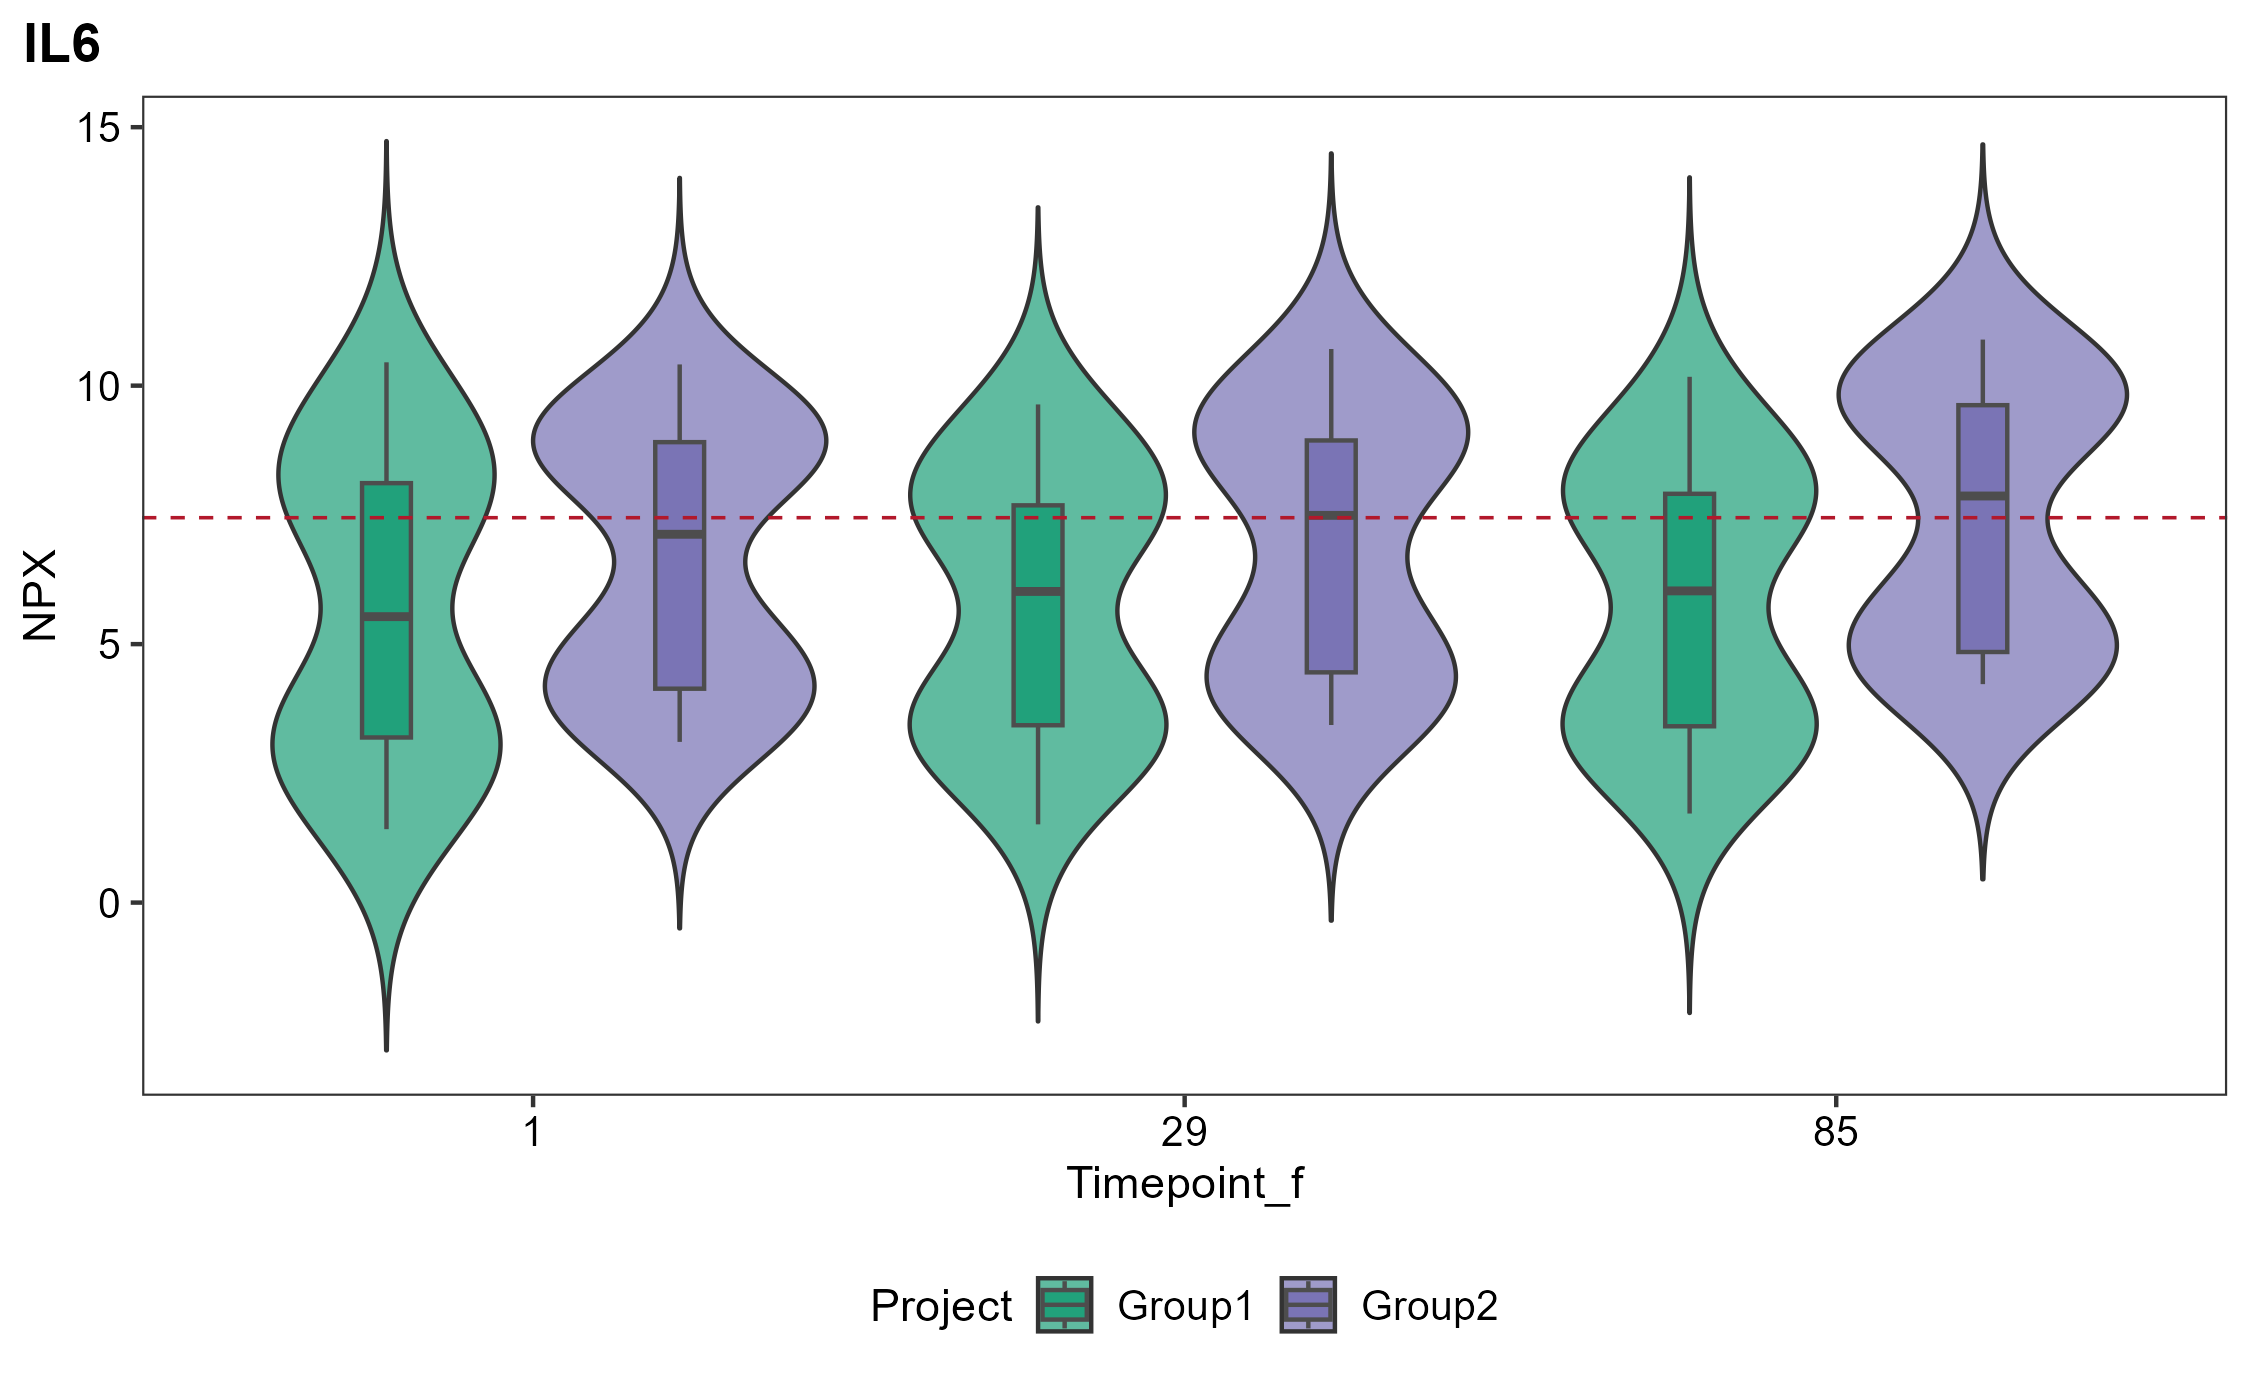
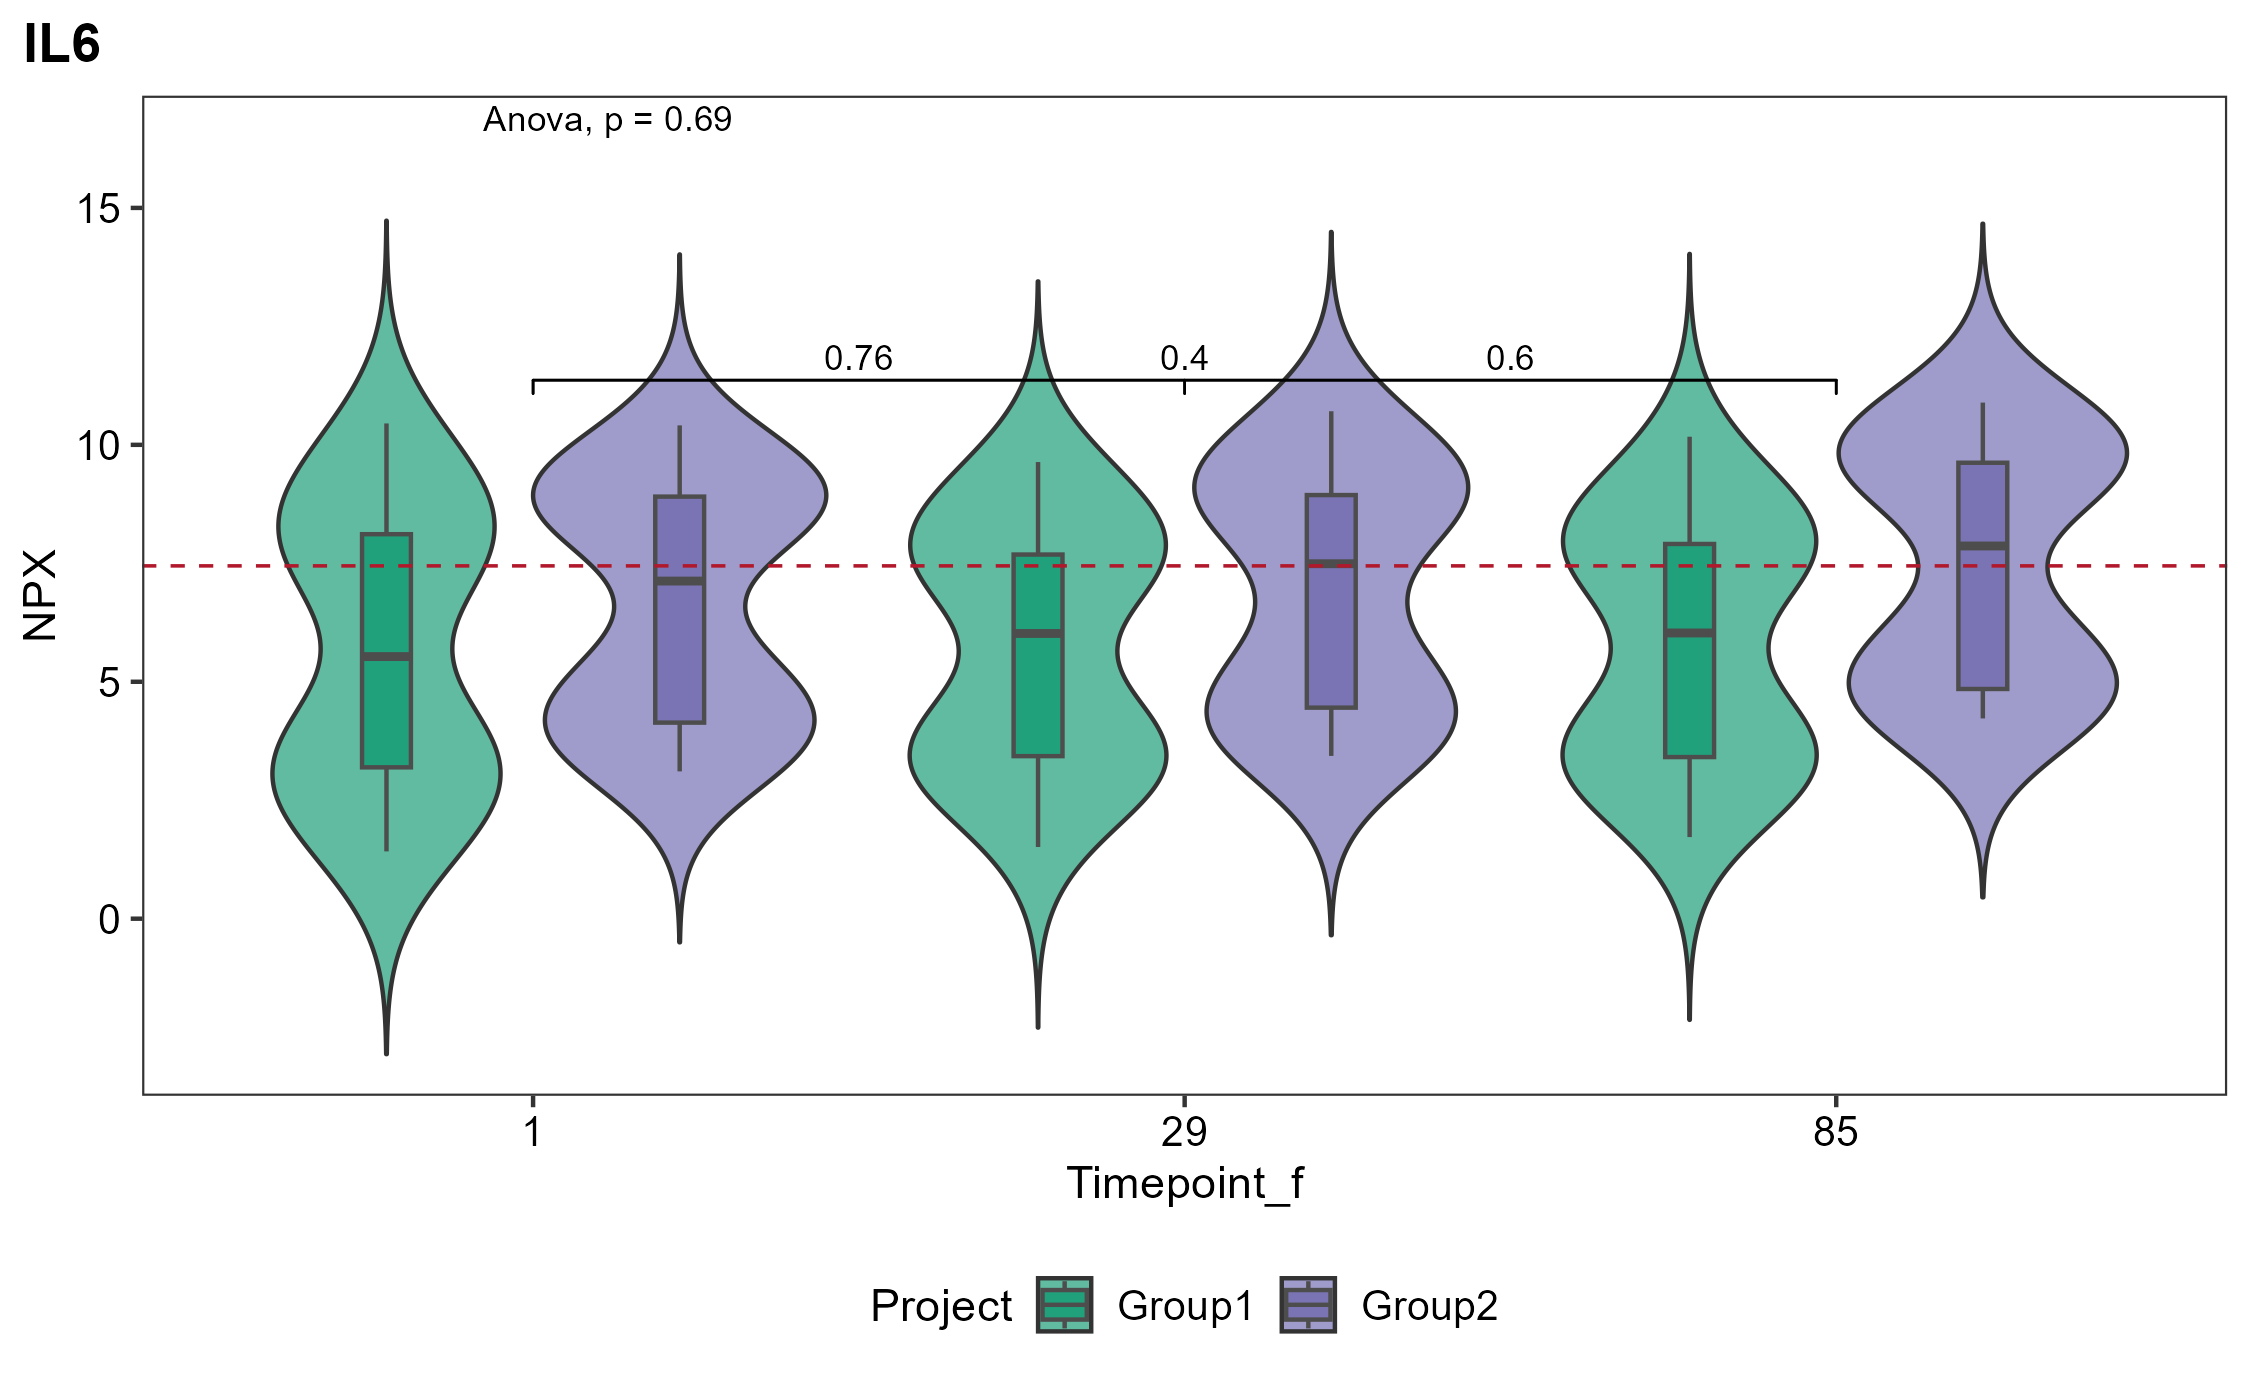
Add t-test, Wilcoxon, ANOVA, Kruskal-Wallis and overall p-value support to plot_violin()

diff --git a/reference/plot_violin.html b/reference/plot_violin.html
@@ -78,6 +78,7 @@ Visualizes the distribution of NPX values over time or across groups.</p>
 <span>  subject_id <span class="op">=</span> <span class="cn">NULL</span>,</span>
 <span>  show_p_value <span class="op">=</span> <span class="cn">FALSE</span>,</span>
 <span>  show_significant <span class="op">=</span> <span class="cn">FALSE</span>,</span>
+<span>  show_overall <span class="op">=</span> <span class="cn">FALSE</span>,</span>
 <span>  p_cutoff <span class="op">=</span> <span class="fl">0.05</span>,</span>
 <span>  bracket_nudge_y <span class="op">=</span> <span class="cn">NULL</span>,</span>
 <span>  step_increase <span class="op">=</span> <span class="fl">0.12</span>,</span>
@@ -144,7 +145,10 @@ is used, every pair of x levels (e.g. timepoints) is compared.</p></dd>
 
 
 <dt id="arg-test">test<a class="anchor" aria-label="anchor" href="#arg-test"></a></dt>
-<dd><p>Statistical test: "wilcox.test" (default) or "t.test".</p></dd>
+<dd><p>Statistical test: `"wilcox.test"` (default), `"t.test"`,
+`"anova"`, or `"kruskal.test"` (short aliases `"wilcox"`, `"t"`, and
+`"kruskal"` are also accepted). `"anova"` and `"kruskal.test"` compute an
+overall test across `x` levels.</p></dd>
 
 
 <dt id="arg-paired">paired<a class="anchor" aria-label="anchor" href="#arg-paired"></a></dt>
@@ -157,12 +161,20 @@ is used, every pair of x levels (e.g. timepoints) is compared.</p></dd>
 
 <dt id="arg-show-p-value">show_p_value<a class="anchor" aria-label="anchor" href="#arg-show-p-value"></a></dt>
 <dd><p>Logical; annotate numeric p-values for each pairwise
-comparison. Requires `ggpubr` (default FALSE).</p></dd>
+comparison (or the overall test when `test` is `"anova"` or
+`"kruskal.test"`). Requires `ggpubr` (default `FALSE`).</p></dd>
 
 
 <dt id="arg-show-significant">show_significant<a class="anchor" aria-label="anchor" href="#arg-show-significant"></a></dt>
 <dd><p>Logical; annotate significance stars (*, **, ***)
-for each pairwise comparison. Requires `ggpubr` (default FALSE).</p></dd>
+for each pairwise comparison. Requires `ggpubr` (default `FALSE`).</p></dd>
+
+
+<dt id="arg-show-overall">show_overall<a class="anchor" aria-label="anchor" href="#arg-show-overall"></a></dt>
+<dd><p>Logical; annotate an overall p-value across `x` levels
+(ANOVA when `test = "t.test"` or `"anova"`, Kruskal-Wallis when
+`test = "wilcox.test"` or `"kruskal.test"`). Requires `ggpubr`
+(default `FALSE`).</p></dd>
 
 
 <dt id="arg-p-cutoff">p_cutoff<a class="anchor" aria-label="anchor" href="#arg-p-cutoff"></a></dt>

diff --git a/articles/plots_using_simulated_data.html b/articles/plots_using_simulated_data.html
@@ -245,7 +245,8 @@ Olink Target 96 panels).</li>
 </h3>
 <div class="sourceCode" id="cb11"><pre class="downlit sourceCode r">
 <code class="sourceCode R"><span><span class="fu"><a href="../reference/plot_violin.html">plot_violin</a></span><span class="op">(</span><span class="va">early_late</span>, assay <span class="op">=</span> <span class="st">"IL6"</span>, x <span class="op">=</span> <span class="st">"Timepoint_f"</span>,</span>
-<span>            group <span class="op">=</span> <span class="st">"Project"</span>, show_lod <span class="op">=</span> <span class="cn">TRUE</span>, show_significant <span class="op">=</span> <span class="cn">TRUE</span><span class="op">)</span></span></code></pre></div>
+<span>            group <span class="op">=</span> <span class="st">"Project"</span>, show_lod <span class="op">=</span> <span class="cn">TRUE</span>,</span>
+<span>            test <span class="op">=</span> <span class="st">"t.test"</span>, show_p_value <span class="op">=</span> <span class="cn">TRUE</span>, show_overall <span class="op">=</span> <span class="cn">TRUE</span><span class="op">)</span></span></code></pre></div>
 <p><img src="plots_using_simulated_data_files/figure-html/violin-1.png" class="r-plt" alt="" width="100%"></p>
 </div>
 <div class="section level3">
